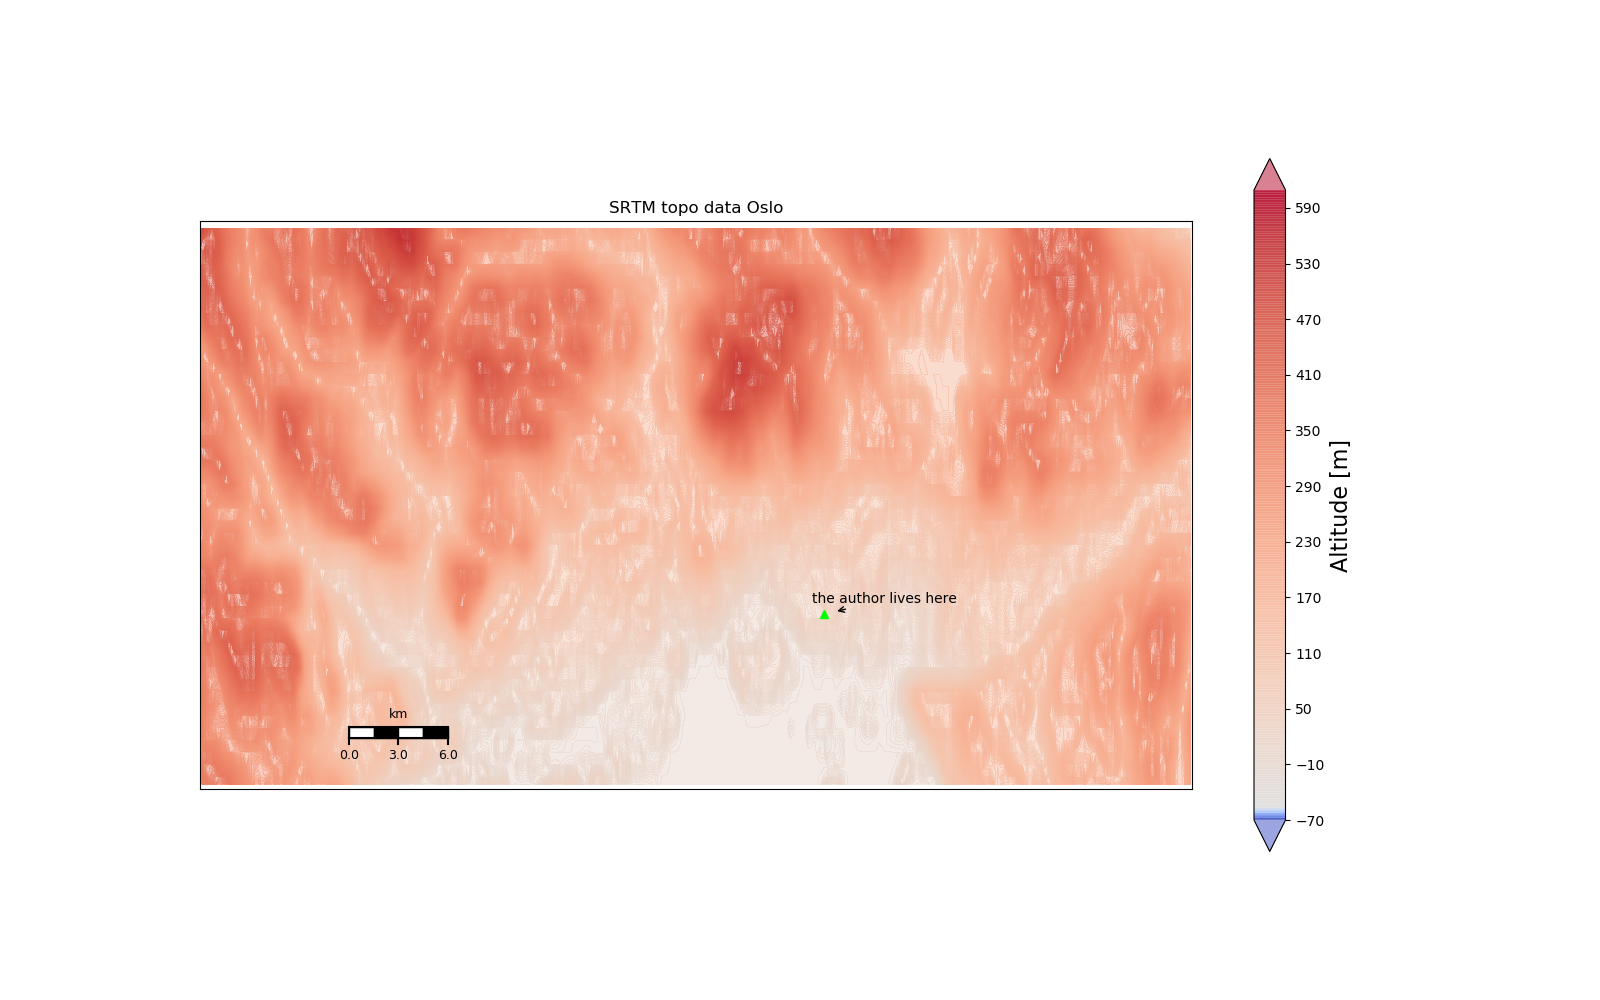
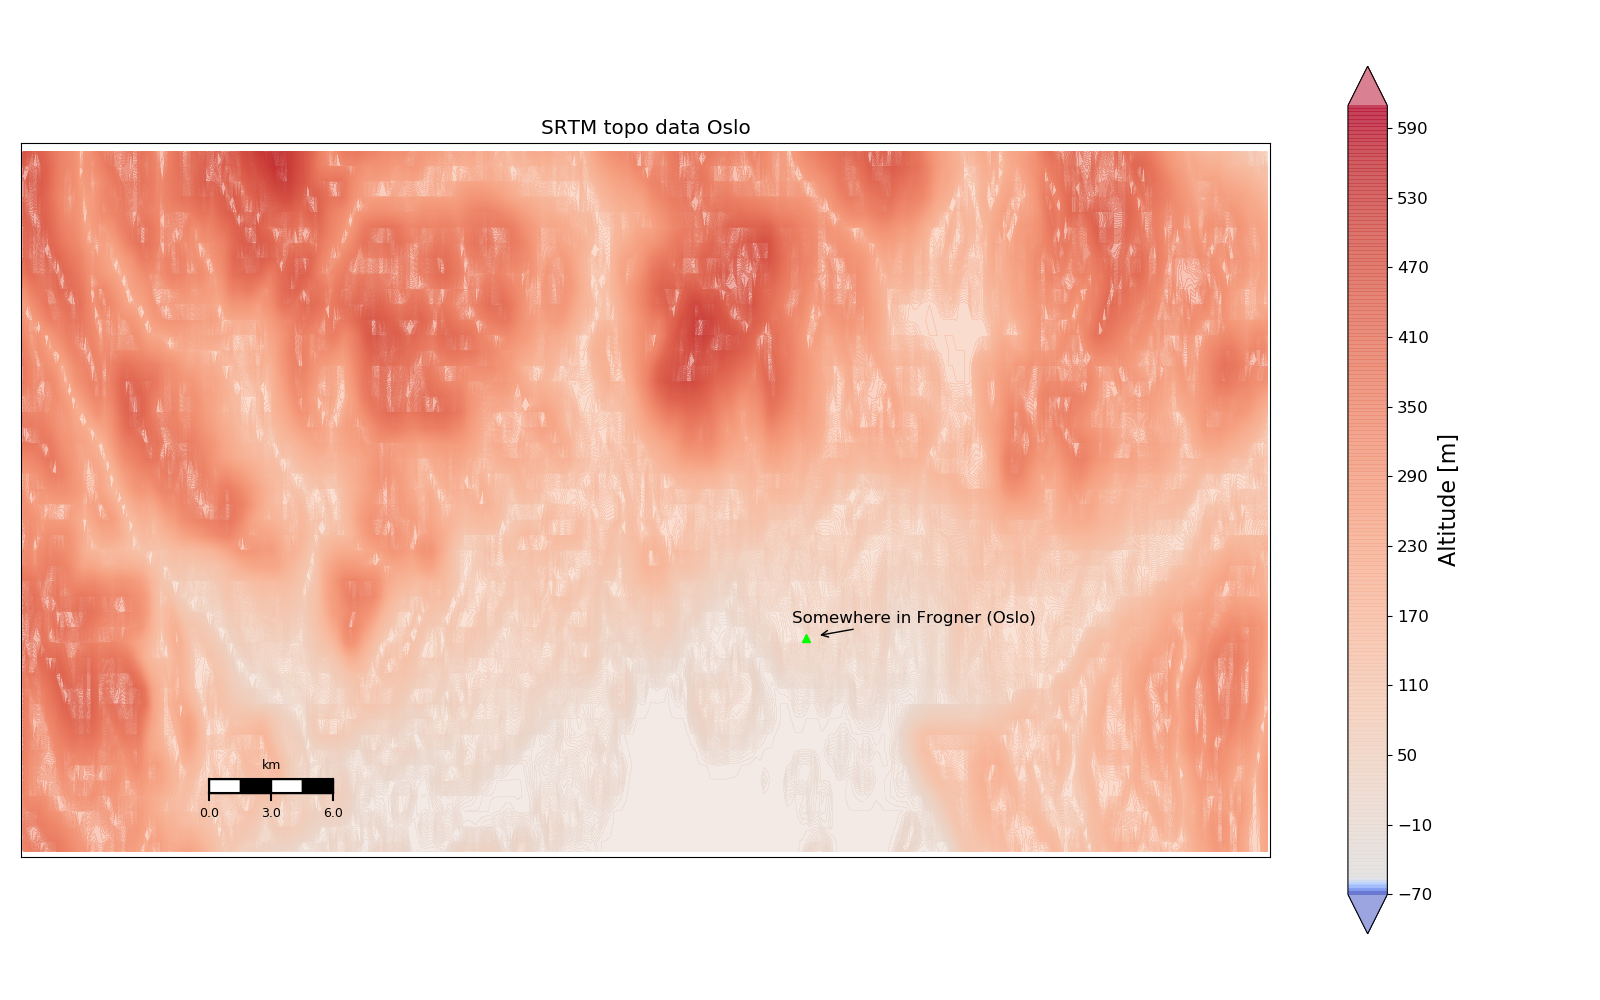
Converted example scripts to python 3 support and included tests, also implemented script RUN_ALL_SCRIPTS.py

diff --git a/scripts/ex4_elevation_profiles.py b/scripts/ex4_elevation_profiles.py
@@ -6,6 +6,8 @@ Elevation profiles and directional topographic analysis
 from matplotlib.pyplot import show, subplots
 from os.path import join
 from os import getcwd
+from SETTINGS import OPTPARSE
+from numpy import testing as npt
 
 ### Imports from other example scripts
 from ex2_geosetup_intro import create_geosetup
@@ -13,7 +15,7 @@ from ex2_geosetup_intro import create_geosetup
 ### Set save directory for figures
 save_path = join(getcwd(), "scripts_out")
 
-def run_ex4():
+def calc_profile():
     """Not very explanatory function name..."""
     
     
@@ -22,25 +24,35 @@ def run_ex4():
     
     # get camera
     cam = s.points["cam"]
-    print cam
+    print(cam)
     
     # calculate elevation profile between camera and source (Etna summit)
     # the camera altitude is 15 m above topography
     elev_profile = cam.get_elevation_profile(geo_point=s.points["source"])
-    dist, dist_err, intersect, view_elevations, ax=\
-        elev_profile.get_first_intersection(elev_angle=10.0,
-                                            view_above_topo_m=15.0, 
-                                            plot=True)
+    
+    
+    return elev_profile
+    
+if __name__ == "__main__":
+    profile = calc_profile()
+    
+    (dist, 
+     dist_err, 
+     intersect, 
+     view_elevations, 
+     ax)= profile.get_first_intersection(elev_angle=10.0,
+                                         view_above_topo_m=15.0, 
+                                         plot=True)
     
     ax.figure.savefig(join(save_path,
                            "ex4_out_1_elev_profile_intersect.png"))
     
     # Find the elvation angle corresponding to the horizon from the 
     # elevation profile
-    elev, elev_secs, dist_secs =\
-        elev_profile.find_horizon_elev(elev_start=10.0, elev_stop=20.0,
-                                       step_deg=0.1,
-                                       view_above_topo_m=15.0)
+    elev, elev_secs, dist_secs = profile.find_horizon_elev(elev_start=10.0, 
+                                                           elev_stop=20.0,
+                                                           step_deg=0.1,
+                                                           view_above_topo_m=15.0)
     
     fig, ax = subplots(1,1)
     ax.plot(elev_secs, dist_secs, "--x")
@@ -49,9 +61,42 @@ def run_ex4():
     ax.set_title("Elev horizon: %s" %elev)
     fig.savefig(join(save_path, "ex4_out_2_horizon_search.png"))
     
-    return elev_profile, s
+    # Import script options
+    (options, args) = OPTPARSE.parse_args()
     
-if __name__ == "__main__":
-    profile, s = run_ex4()
-    show()
+    # If applicable, do some tests. This is done only if TESTMODE is active: 
+    # testmode can be activated globally (see SETTINGS.py) or can also be 
+    # activated from the command line when executing the script using the 
+    # option --test 1
+    if int(options.test):
+        from os.path import basename
+        npt.assert_array_equal([], [])
+        
+        
+        actual = [profile.start_point.longitude,
+                  profile.start_point.latitude,
+                  profile.start_point.altitude,
+                  profile.alt_range,
+                  dist, dist_err,
+                  intersect.longitude,
+                  intersect.latitude,
+                  intersect.altitude,
+                  elev]
+        
+        npt.assert_allclose(actual=actual,
+                            desired=[15.1129, 37.73122, 803., 
+                                     2482.5040909723493,
+                                     7.667649e+00,   
+                                     8.378121e-03,   
+                                     1.502820e+01,   
+                                     3.774504e+01,
+                                     2.169563e+03,
+                                     13.299999999999988],
+                            rtol=1e-6)
+        print("All tests passed in script: %s" %basename(__file__)) 
+    try:
+        if int(options.show) == 1:
+            show()
+    except:
+        print "Use option --show 1 if you want the plots to be displayed"
     

diff --git a/scripts/ex2_geosetup_intro.py b/scripts/ex2_geosetup_intro.py
@@ -7,6 +7,8 @@ from geonum import GeoPoint, GeoVector3D, GeoSetup
 from matplotlib.pyplot import show, close, rcParams
 from os.path import join
 from os import getcwd
+from SETTINGS import OPTPARSE
+from numpy import testing as npt
 ### Set save directory for figures
 save_path = join(getcwd(), "scripts_out")
 
@@ -40,8 +42,6 @@ def plot_geosetup(geosetup):
     map2d = geosetup.plot_2d()
     map3d = geosetup.plot_3d()
     
-    show()
-    
     return map2d, map3d
     
 if __name__ == "__main__":
@@ -50,3 +50,37 @@ if __name__ == "__main__":
     map2d, map3d = plot_geosetup(s)
     map2d.ax.figure.savefig(join(save_path, "ex2_out_1_map2D.png"))
     map3d.ax.figure.savefig(join(save_path, "ex2_out_2_map3D.png"))
+    
+    # Import script options
+    (options, args) = OPTPARSE.parse_args()
+    
+    # If applicable, do some tests. This is done only if TESTMODE is active: 
+    # testmode can be activated globally (see SETTINGS.py) or can also be 
+    # activated from the command line when executing the script using the 
+    # option --test 1
+    if int(options.test):
+        from os.path import basename
+        npt.assert_array_equal([4, 2, True],
+                               [len(s.points),
+                                len(s.vectors),
+                                all([x in ['source', 
+                                           'll', 
+                                           'tr', 
+                                           'cam'] for x in list(s.points)])],
+                                all([x in ['plume', 
+                                           'cam_view'] for x in list(s.vectors)]))
+        
+        actual = [s.points['source'].altitude,
+                  s.points['cam'].altitude]
+        npt.assert_allclose(actual=actual,
+                            desired=[3264.0,
+                                     803.0],
+                            rtol=1e-7)
+        print("All tests passed in script: %s" %basename(__file__)) 
+    try:
+        if int(options.show) == 1:
+            show()
+    except:
+        print "Use option --show 1 if you want the plots to be displayed"
+    
+    

diff --git a/scripts/ex5_topodata.py b/scripts/ex5_topodata.py
@@ -1,17 +1,24 @@
 """geonum example script 5
 
 Low level access to topographic data (here SRTM) using the example of 
-Oslo (Norway)
+Oslo (Norway).
+
+Note
+----
+Very short example, does not provide the deepest insights but gives an idea
+
 """
 import geonum
 from matplotlib.pyplot import show
 from os.path import join
 from os import getcwd
+from SETTINGS import OPTPARSE
+from numpy import testing as npt
 ### Set save directory for figures
 save_path = join(getcwd(), "scripts_out")
 
 def load_topo_oslo():
-    dat = geonum.topodata.TopoDataAccess()
+    dat = geonum.topodata.TopoDataAccess(mode='srtm')
     topodata = dat.get_data(59.8728, 10.375, 60.026, 10.9144)
     return topodata
     
@@ -23,8 +30,30 @@ if __name__ == "__main__":
     basemap.draw_mapscale_auto()
     
     my_flat = geonum.base.GeoPoint(59.919386, 10.714970,
-                                   name="the author lives here")
+                                   name="Somewhere in Frogner (Oslo)")
     my_flat.plot_2d(basemap, add_name=True)
     basemap.ax.figure.savefig(join(save_path, "ex5_out_1_oslo_map.png"))
-    show()
+    
+    # Import script options
+    (options, args) = OPTPARSE.parse_args()
+    
+    # If applicable, do some tests. This is done only if TESTMODE is active: 
+    # testmode can be activated globally (see SETTINGS.py) or can also be 
+    # activated from the command line when executing the script using the 
+    # option --test 1
+    if int(options.test):
+        from os.path import basename
+        npt.assert_array_equal([], [])
+        
+        actual = [my_flat.altitude]
+        npt.assert_allclose(actual=actual,
+                            desired=[44.0],
+                            rtol=1e-6)
+        print("All tests passed in script: %s" %basename(__file__)) 
+    try:
+        if int(options.show) == 1:
+            show()
+    except:
+        print "Use option --show 1 if you want the plots to be displayed"
+    
     

diff --git a/scripts/ex1_basic_objects.py b/scripts/ex1_basic_objects.py
@@ -4,7 +4,9 @@ Introduction into the geonum base classes GeoPoint and GeoVector3D
 """
 
 from geonum.base import GeoPoint
-
+from SETTINGS import OPTPARSE
+from numpy import testing as npt
+from matplotlib.pyplot import show
 ### Create 2 GeoPoint objects 
 
 # Summit region of Mt. Etna
@@ -14,12 +16,43 @@ p1 = GeoPoint(lat=37.751005, lon=14.993435, altitude=3264.0, name="Etna")
 p2 = GeoPoint(37.765755,  15.016696, name="Observatory")
 
 # Print info (string represenation of both points")
-print "Point1: %s, point 2: %s" %(p1, p2)
+print("Point1: %s, point 2: %s" %(p1, p2))
 
 # Get and print the connection vector of both points
 connection_vector = p2 - p1
 
-print connection_vector
+print(connection_vector)
+
+# Import script options
+(options, args) = OPTPARSE.parse_args()
+
+# If applicable, do some tests. This is done only if TESTMODE is active: 
+# testmode can be activated globally (see SETTINGS.py) or can also be 
+# activated from the command line when executing the script using the 
+# option --test 1
+if int(options.test):
+    from os.path import basename
+    
+    actual = [connection_vector.azimuth,
+              connection_vector.elevation, 
+              connection_vector.magnitude]
+    assert connection_vector.anchor is p1
+    npt.assert_allclose(actual=actual,
+                        desired=[51.378677249653983,
+                                 -9.6064174085658465,
+                                 2.6606074796318557],
+                        rtol=1e-7)
+    
+    
+
+    print("All tests passed in script: %s" %basename(__file__)) 
+try:
+    if int(options.show) == 1:
+        show()
+except:
+    print "Use option --show 1 if you want the plots to be displayed"
+
+
 
 # Output:
 # GeoVector3D Etna->Observatory

diff --git a/scripts/RUN_ALL_SCRIPTS.py b/scripts/RUN_ALL_SCRIPTS.py
@@ -15,14 +15,13 @@
 #
 # You should have received a copy of the GNU General Public License
 # along with this program. If not, see <http://www.gnu.org/licenses/>.
-from os import listdir
+
+import glob
 from os.path import basename
 from traceback import format_exc
 from SETTINGS import OPTPARSE
 
-raise NotImplementedError("Under development...")
-paths = [f  for f in listdir(".") if f[:2] == "ex" and f[:4] != "ex0_"
-         and f.endswith("py")]
+paths = sorted(glob.glob('ex*.py'))
 
 # init arrays, that store messages that are printed after execution of all 
 # scripts

diff --git a/scripts/SETTINGS.py b/scripts/SETTINGS.py
@@ -20,8 +20,6 @@ from os.path import join, abspath
 from optparse import OptionParser
 from matplotlib import rcParams
 
-raise NotImplementedError("Under development...")
-
 rcParams.update({'figure.autolayout': True})
 rcParams.update({'font.size': 13})
 
